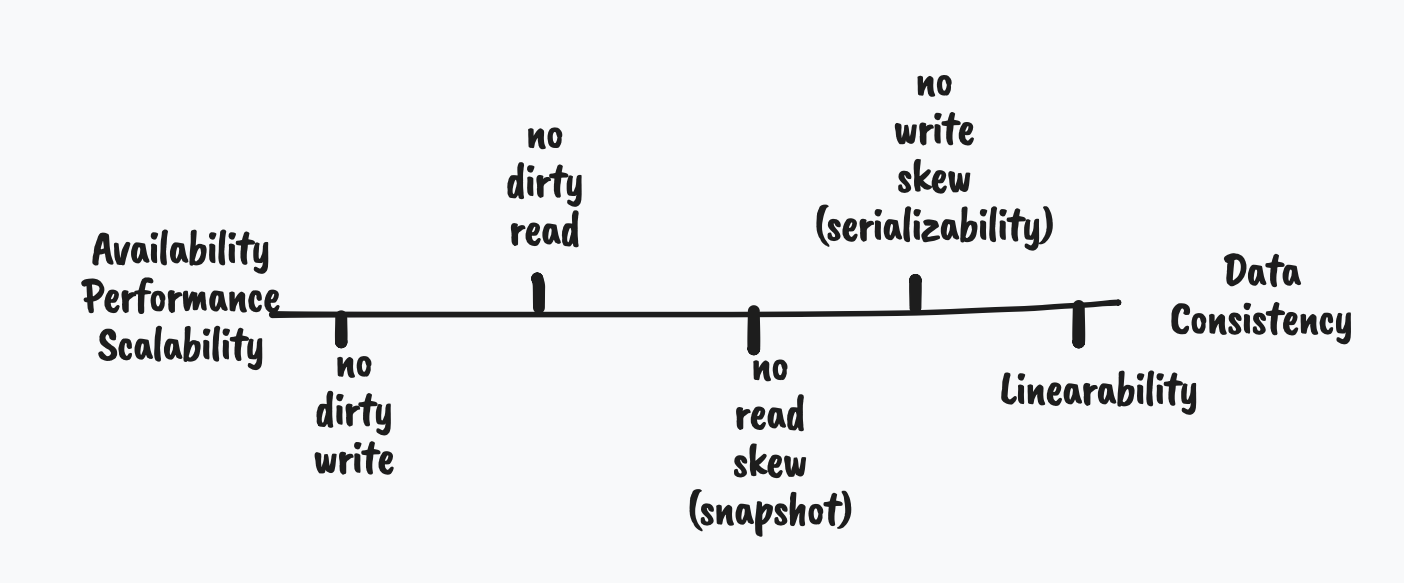
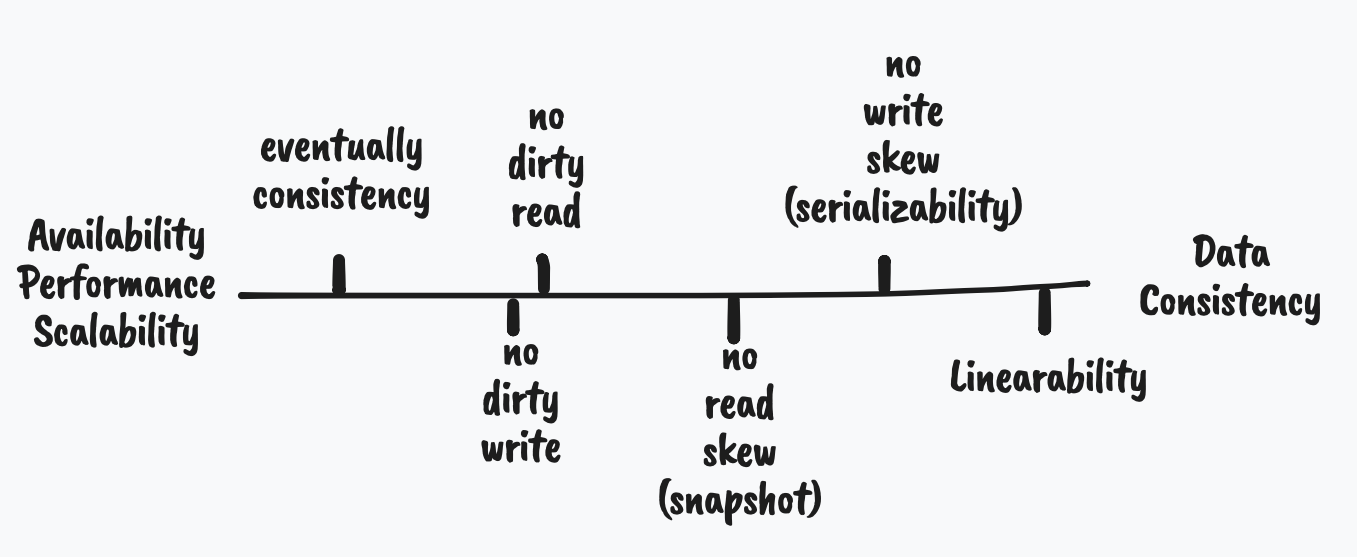
Add consistency level

diff --git a/src/feedback/designing-data-intensive-applications/resolve-race-condition.md b/src/feedback/designing-data-intensive-applications/resolve-race-condition.md
@@ -130,6 +130,134 @@ WHERE recipient_id = 2;
 
 這裡解釋的方式是使用較為生活化、範例性的說明，若需要暸解精準的定義，可以查看論文[1][2][3]。
 
+> 最終一致性（eventual consistence）代表在確定但不可預期的未來（不管是人為介入還是網路中斷的復原）裡，資料會被達成一致。
+> 這是最弱的一致性，在考慮資料的一致性時，通常都預設資料庫有這一類型的保證。
+
+### 使用提交後的資料
+
+所謂的「使用」有兩種：讀取和寫入。以上述郵件為例，就是一種「讀未完成的資料」（dirty read），而下述例子代表「覆寫未完成的資料」（dirty write）：
+
+![因為可以覆蓋掉別人還沒寫完的資料，很可能會造成破碎的狀態](https://github.com/Vonng/ddia/raw/master/img/fig7-5.png)
+
+因為 _Alice_ 和 _Bob_ 的資料彼此被覆寫了，所以導致最終的狀態破碎化：購買者是 _Bob_，發票上的收件者卻是 _Alice_。
+
+我們稱這種狀況代表資料庫並沒有「使用提交後的資料」（read committed）。要達成這等級的一致性解決辦法通常就是加鎖，幾乎每個資料庫都有實作本等級。
+
+!!! tip "資料遺失並不代表複寫未完成的資料"
+
+    如果 _Alice_ 和 _Bob_ 先後完成請求，並且彼此被覆寫僅有一方被覆寫，這時並不違反_使用提交後的資料_。這只是代表資料遺失了，我們會在下面提到資料遺失的解決辦法。
+
+#### 覆寫未完成的資料
+
+當寫入多筆資料時，鎖住寫過的物件。 以上述為例，當 _Alice_ 尚未完成交易（un-commit）前，`listings id=1234` 的物件會被鎖住，即使 _Bob_ 想修改，也需要等 _Alice_ 完成交易。
+
+#### 讀未完成的資料
+
+若其他請求正在寫入資料時，我們避免其他請求並行讀取時，會大量降低效能（OLTP 的特性是大量讀取少量異動）。所以通常在實作鎖的時候，僅會避免同時寫入。
+
+但是這樣就沒辦法達成我們要求的一致性等級：只讀完成的資料（no dirty read）。我們可以讓正在寫入的資料放在記憶體中，這時其他請求在讀取時，就是讀磁碟裡的資料，這樣就可以避免其他請求讀取到還未完成的資料。當正在寫入的資料完成時，再把做好的資料放回磁碟中。
+
+> 已知的資料庫中，僅有 Microsoft SQL Server 當設定 [`read_committed_snapshot=off`](https://docs.microsoft.com/zh-tw/dotnet/framework/data/adonet/sql/snapshot-isolation-in-sql-server#understanding-snapshot-isolation-and-row-versioning) 時會讓鎖住的物件無法被讀取。
+
+### 快照隔離
+
+_使用提交後的資料_，好像已經很符合我們前面對於交易所說的意義：可以無負擔的捨棄（abortable/atomic）、交易間不會互相影響。前面提到的例子，也都可以順利解決，使用者不會再看到有未讀郵件，卻沒有增加未讀郵件的數量（不讀未完成的資料）。然而：
+
+![使用者僅讀交易完成後的資料，卻仍可能讀到交易的不一致性](https://github.com/Vonng/ddia/raw/master/img/fig7-6.png)
+
+有個請求同時讀取到交易開始前和結束後的狀態，這時就會顯示出狀態的不一致性。聽起來好像還好，我再重新整理就可以把狀態恢復原狀，但是你還需要考慮以下狀況：
+
+> 前面的圖提到的 read skew 就代表這個讀取動作因為任何原因（網路排隊、運行暫停等等）被延遲了，導致其讀取的資料是傾斜的（狀態不一致的）。
+
+-   資料庫的備份。當資料庫在針對線上資料庫做備份時，他仍然後遇到上述的問題。如果備份的資料是狀態不一致的，當未來需要用備份資料做復原時，就會造成這種短暫不一致性的資料變成永久性的
+-   分析性的搜尋。若你需要做分析全部使用者的狀態時，很可能會得到這種破碎或不合乎邏輯的結果。
+
+我們稱這種狀況沒辦法達成「快照隔離」一致性。要達成這個等級的一致性，通常會使用**多版本並行控制**（multi-version concurrency control，MVCC），這也是很多資料庫會達成的等級。
+
+!!! warning "專有名詞"
+
+    有些資料庫會稱快照隔離為**可重複讀取**（repeatable read）或**序列化**（serializable），這是因為當初以 System R 為基礎建立的 SQL 協定就是使用可重複讀取這個名詞，資料庫為了宣稱其滿足 SQL 協定，就會把這個名詞寫進他們的文件中。
+
+    雖然有論文[4][5]給予這一類的一致性一個定義，但是大部分資料庫在宣稱其擁有可重複讀取的一致性時並未滿足這個定義。更糟的是 IBM DB2 甚至把**序列化**當成**快照隔離**
+
+    - 使用快照隔離的[資料庫](https://dbdb.io/browse?isolation-levels=snapshot-isolation&q=)
+    - 使用重複讀取的[資料庫](https://dbdb.io/browse?isolation-levels=repeatable-read&q=)
+
+#### 多版本並行控制
+
+簡單來說，多版本並行控制就是替資料庫的狀態建立多個版本，每個交易只能操作其當下擁有的版本號，這個版本好我們稱其為交易編號（transaction ID，`txid`）。
+
+> 前面我們提到的*使用提交後的資料*就是讓資料庫擁有兩個版本，一個是交易正在修改時的狀態（un-committed）版本，一個是交易完成（committed）後的版本。
+> 所有僅作讀取的交易只會使用到交易完成後的版本，而執行寫入的交易就會自己擁有正在修改時的版本（通常存放於記憶體）。
+
+![你只能讀取同一個版本下的資料庫](https://github.com/Vonng/ddia/raw/master/img/fig7-7.png)
+
+當交易在做讀取時，會根據一個一直增加的計數器給予其交易編號（以上圖為例就是 `txid=12`）。這時，資料庫會列出目前有哪些正在執行的交易，待會本交易在操作時，所有正在執行的交易都會被拒絕使用。同時，只能讀取時，小於其擁有的交易編號的資料（以上圖為例就是 `txid=13` 不能被讀取）。
+
+其核心概念就是：所有的讀取都不會影響所有的寫入，反之亦然。
+
+> 賦值的計數器當大於一固定數時是會歸零重算的。
+
+#### 索引
+
+前面我們有提過[資料庫的索引是如何運作的](db-index.md)，但是如果*多版本並行控制*需要被考慮進去時，就需要一些額外的功去調整機制。
+
+一個作法是讓索引指向所有版本的資料（不管是頁導向中指向特定頁或者日誌結構的散列對照表的地址），但是根據不同實作方式可能會有很大的效能差異。
+
+-   PostgreSQL 會盡量讓所有版本的資料都放進同一個頁
+-   CouchDB、Datomic、LMDB 當交易需要更新資料時，讓他直接重新建立新的樹狀結構，完成後直接取代舊的樹狀結構。這樣其他讀取的交易就不會受到影響。但是他會需要背景執行垃圾回收和壓縮的工作
+
+> CouchDB、Datomic、LMDB 雖然也是使用 B-Tree 做儲存，但是機制卻是 append-only/copy-on-write。當更新資料時，不去更動舊的頁，而是直接新增一個頁並讓它取代舊頁的位置。
+
+### 寫入傾斜
+
+上面提到的競賽狀況都是不同交易嘗試使用相同的物件，但是競賽狀況也是會發生在當不同交易同時寫入不同物件的時候。
+
+我們先假設一個狀況，醫院在晚上值班的時候必須要至少擁有一個住院醫師，但是一般情況會讓兩個住院醫師值班（也就是允許讓其中一個醫生休假）。若他們同時在排班系統中，申請休假，狀況就發生了。
+
+![透過資料庫的值來判定邏輯運作時，就可能造成過時的判斷](https://github.com/Vonng/ddia/raw/master/img/fig7-8.png)
+
+這時，用前面的解法並沒有辦法達成資料一致性，因為他們更新（或注入）的目標是不同的。
+
+!!! example "更多範例"
+
+    這就是我們常見的，訂票系統被超訂了。另外一個範例也包括預約系統：
+
+    ```sql title="若有空位，則可預約"
+    BEGIN TRANSACTION;
+
+    -- 檢查所有現存的與 12:00~13:00 重疊的預約
+    SELECT COUNT(*) FROM bookings
+    WHERE room_id = 123 AND
+    end_time > '2015-01-01 12:00' AND start_time < '2015-01-01 13:00';
+
+    -- 如果之前的查詢顯示沒有重疊的預約（COUNT(*) == 0）
+    INSERT INTO bookings(room_id, start_time, end_time, user_id)
+    VALUES (123, '2015-01-01 12:00', '2015-01-01 13:00', 666);
+
+    COMMIT;
+    ```
+
+    這例子不像醫生的例子，因為醫生例子是會讀取**存在**的值再根據該值做判斷；反過來說，預約系統是根據**不存在**的值做判斷。
+
+    這種不存在的值而造成的寫入傾斜，我們稱其為假體判定（phantom）。
+
+#### 限制狀態
+
+其中一個簡單的解法：constraint
+
+例如使用者帳戶必須 unique。
+
+#### 限制讀取
+
+你也可以根據商務邏輯，讓程式設計師要求某行在這次交易中是被鎖住不同讀取的。
+
+在前面的「更多範例」中的假體判定就無法透過限制讀取來避免寫入傾斜，因為她並不是依靠任一物件作判定，而是根據整體的資料做判定。這時除了鎖住整個表格（table），你也可以透過物化衝突（materializing conflicts）來物化一些資料以達成部份的鎖定。
+
+已前面的預約系統為例，你可以額外建立一個表格，並在其中放入每十五分鐘的時間區間，所以該表會有 `2000-01-01 00:00:00`、`2000-01-01 00:15:00` 等等的值。當你在做會議室有無預約時，可以鎖定該預約時段的值，避免被讀取，這時就可以達到鎖定部分值的效果，也就是讓假體變成實體。
+
+然而這個方法卻會讓你的應用程式變得很髒（在應用程式的程式碼中寫入資料庫的並行控制邏輯），這個做法根據實作場景很可能變得很困難。所以這應該是作為最後手段，比起這方法，你更應該考慮使用[序列化](#序列化)。
+
 1. HA v.s. Consistency，在兩端中選擇不同等級。展示不同等級的一致性並放入線性中（透過例子，但是都有明確定義於論文中）
     - Eventually Consistency <--> Serializable isolation
     - No dirty read
@@ -164,3 +292,5 @@ WHERE recipient_id = 2;
 [1]: https://www.microsoft.com/en-us/research/wp-content/uploads/2016/02/tr-95-51.pdf
 [2]: http://pmg.csail.mit.edu/papers/adya-phd.pdf
 [3]: http://arxiv.org/pdf/1302.0309.pdf
+[4]: http://pmg.csail.mit.edu/papers/adya-phd.pdf
+[5]: http://arxiv.org/pdf/1302.0309.pdf
